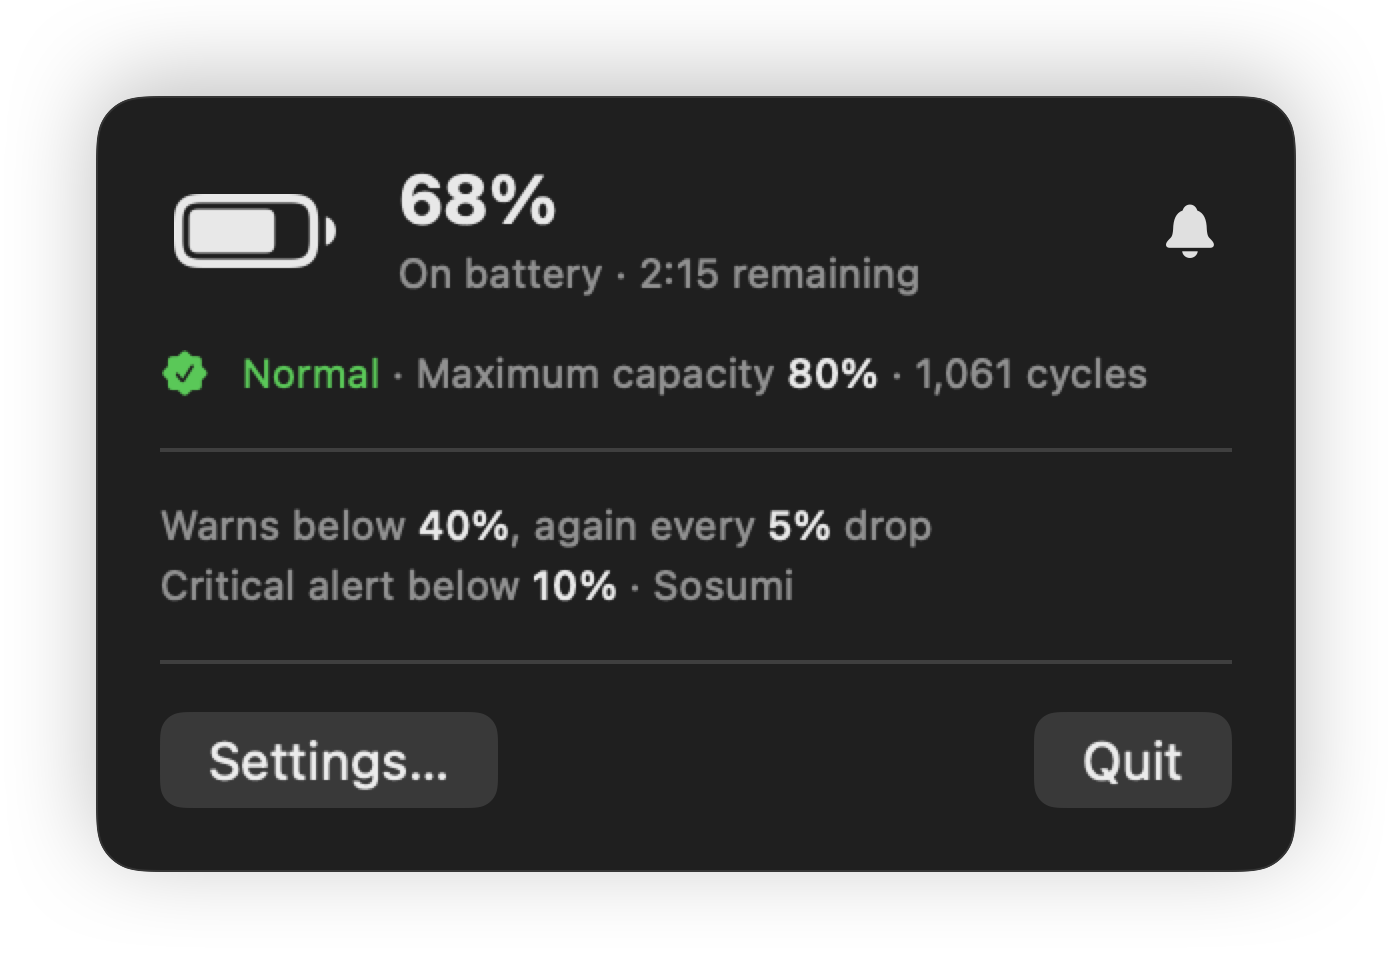
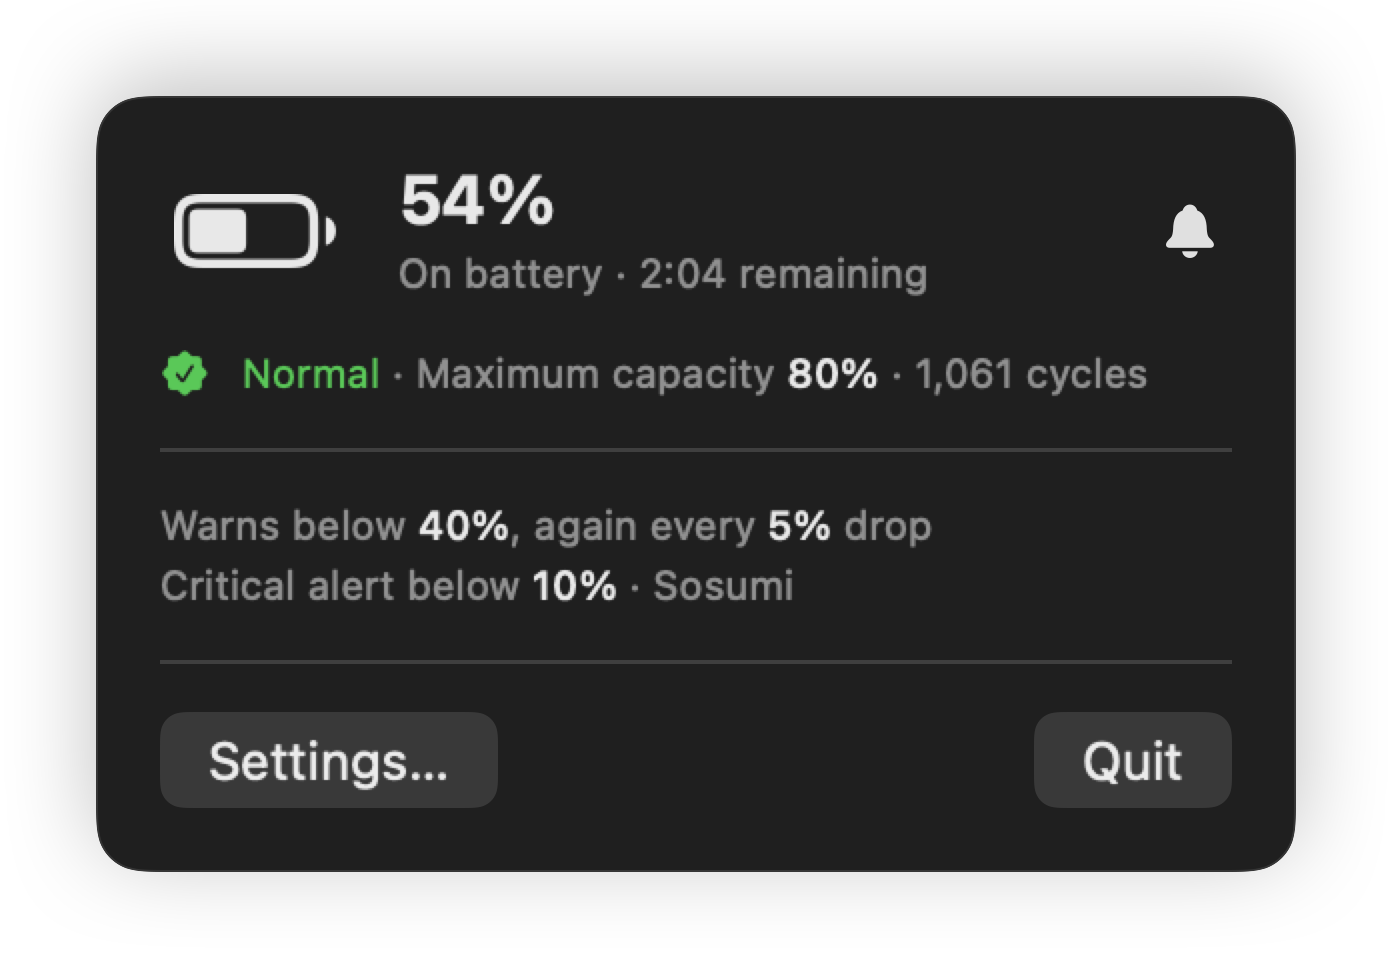
docs: show the screenshots as stacked cards matching the github theme
One labelled column per appearance, with the other appearance behind
it, picked by prefers-color-scheme so it shows larger than side by side.

Changed region(s): [[0.4634, 0.2449, 0.6796, 0.3061], [0.278, 0.1837, 0.4016, 0.2449], [0.1545, 0.2143, 0.2162, 0.2755]]

diff --git a/docs/images/compose.swift b/docs/images/compose.swift
@@ -1,6 +1,7 @@
-// Combines the screenshots into screenshots.png for the README: Light and Dark across the top, and
-// the menu bar icon, the menu bar panel and the Settings window down each column. Run by
-// update-screenshots.sh from the repo root.
+// Combines the screenshots into screenshots-light.png and screenshots-dark.png for the README, which
+// shows the one matching the visitor's GitHub theme. Each has the menu bar icon, the menu bar panel
+// and the Settings window down one column, labelled, in that appearance, with the other appearance
+// peeking out behind like a stacked card. Run by update-screenshots.sh from the repo root.
 import AppKit
 
 let dir = "docs/images"
@@ -28,8 +29,8 @@ func fit(_ image: NSImage, width: CGFloat) -> NSImage {
 // Each image has a transparent margin for its shadow. Items are sized and placed by what's inside
 // it, so the panel and the menu bar strip match the Settings window's width (rendered at 4x, they're
 // only ever scaled down), and the shadows spill into the gaps instead of widening the image.
-// Margins in points at the image's own size: sides, top, bottom. The menu bar strip has room for
-// its captions below; a window's shadow falls lower than it reaches above.
+// Margins are in points at the image's own size. The menu bar strip has room for its captions below;
+// a window's shadow falls lower than it reaches above.
 let shadowMargin: [String: (side: CGFloat, top: CGFloat, bottom: CGFloat)] = [
     "menubar": (240 * 24 / 300, 4, 18), "panel": (24, 20, 28), "settings": (56, 37.5, 74.5),
 ]
@@ -39,26 +40,6 @@ func item(_ name: String) -> (image: NSImage, side: CGFloat, top: CGFloat, botto
     let zoom = windowWidth / (image.size.width - 2 * margin.side)
     return (fit(image, width: image.size.width * zoom), margin.side * zoom, margin.top * zoom, margin.bottom * zoom)
 }
-let rows = ["menubar", "panel", "settings"].map { (light: item("\($0)-light"), dark: item("\($0)-dark")) }
-
-// Layout, in points
-let margin: CGFloat = 48, columnGap: CGFloat = 48, rowGap: CGFloat = 40, headerHeight: CGFloat = 64
-// A row is as tall as its content, without the margins above and below
-let rowHeights = rows.map { $0.light.image.size.height - $0.light.top - $0.light.bottom }
-let size = CGSize(width: margin * 2 + windowWidth * 2 + columnGap,
-                  height: margin * 2 + headerHeight + rowHeights.reduce(0, +) + rowGap * CGFloat(rows.count - 1))
-
-let rep = NSBitmapImageRep(bitmapDataPlanes: nil, pixelsWide: Int(size.width * scale), pixelsHigh: Int(size.height * scale),
-                           bitsPerSample: 8, samplesPerPixel: 4, hasAlpha: true, isPlanar: false,
-                           colorSpaceName: .deviceRGB, bytesPerRow: 0, bitsPerPixel: 0)!
-rep.size = size
-NSGraphicsContext.saveGraphicsState()
-NSGraphicsContext.current = NSGraphicsContext(bitmapImageRep: rep)
-NSGraphicsContext.current?.imageInterpolation = .high
-
-// A soft neutral card, so the dark labels read on both GitHub themes
-NSColor(srgbRed: 0.933, green: 0.941, blue: 0.957, alpha: 1).setFill()
-NSBezierPath(roundedRect: CGRect(origin: .zero, size: size), xRadius: 28, yRadius: 28).fill()
 
 func draw(_ text: String, size: CGFloat, weight: NSFont.Weight, color: NSColor, in box: CGRect, centered: Bool) {
     let style = NSMutableParagraphStyle()
@@ -70,23 +51,65 @@ func draw(_ text: String, size: CGFloat, weight: NSFont.Weight, color: NSColor, 
                             withAttributes: attributes)
 }
 
-let ink = NSColor(srgbRed: 0.11, green: 0.114, blue: 0.13, alpha: 1)
-let columnX = [margin, margin + windowWidth + columnGap]
+// Layout, in points
+let margin: CGFloat = 48, rowGap: CGFloat = 48, labelWidth: CGFloat = 170, peek = CGSize(width: 56, height: 40)
+let labels = ["Menu bar icon", "Menu bar panel", "Settings window"]
+for front in ["light", "dark"] {
+    let back = front == "light" ? "dark" : "light"
+    let rows = ["menubar", "panel", "settings"].map { (name: $0, front: item("\($0)-\(front)"), back: item("\($0)-\(back)")) }
+    let rowHeights = rows.map { $0.front.image.size.height - $0.front.top - $0.front.bottom + peek.height }
+    let size = CGSize(width: margin * 2 + labelWidth + windowWidth + peek.width,
+                      height: margin * 2 + rowHeights.reduce(0, +) + rowGap * CGFloat(rows.count - 1))
+    let rep = NSBitmapImageRep(bitmapDataPlanes: nil, pixelsWide: Int(size.width * scale), pixelsHigh: Int(size.height * scale),
+                               bitsPerSample: 8, samplesPerPixel: 4, hasAlpha: true, isPlanar: false,
+                               colorSpaceName: .deviceRGB, bytesPerRow: 0, bitsPerPixel: 0)!
+    rep.size = size
+    NSGraphicsContext.saveGraphicsState()
+    NSGraphicsContext.current = NSGraphicsContext(bitmapImageRep: rep)
+    NSGraphicsContext.current?.imageInterpolation = .high
+    // A card in the GitHub theme's own tone, with matching ink
+    let dark = front == "dark"
+    (dark ? NSColor(srgbRed: 0.086, green: 0.106, blue: 0.133, alpha: 1) : NSColor(srgbRed: 0.933, green: 0.941, blue: 0.957, alpha: 1)).setFill()
+    NSBezierPath(roundedRect: CGRect(origin: .zero, size: size), xRadius: 28, yRadius: 28).fill()
+    let ink = dark ? NSColor(srgbRed: 0.902, green: 0.929, blue: 0.953, alpha: 1) : NSColor(srgbRed: 0.11, green: 0.114, blue: 0.13, alpha: 1)
 
-// Header: Light and Dark over their columns (AppKit's origin is bottom-left)
-var top = size.height - margin
-for (x, title) in zip(columnX, ["Light", "Dark"]) {
-    draw(title, size: 32, weight: .bold, color: ink, in: CGRect(x: x, y: top - headerHeight, width: windowWidth, height: headerHeight), centered: true)
-}
-top -= headerHeight
-
-for (row, height) in zip(rows, rowHeights) {
-    for (x, item) in zip(columnX, [row.light, row.dark]) {
-        item.image.draw(in: CGRect(origin: CGPoint(x: x - item.side, y: top - height - item.bottom), size: item.image.size))
+    let x0 = margin + labelWidth
+    var top = size.height - margin
+    for (index, (row, height)) in zip(rows, rowHeights).enumerated() {
+        let bottom = top - height
+        let frontFrame = CGRect(origin: CGPoint(x: x0 - row.front.side, y: bottom - row.front.bottom), size: row.front.image.size)
+        let backFrame = CGRect(origin: CGPoint(x: x0 + peek.width - row.back.side, y: bottom + peek.height - row.back.bottom), size: row.back.image.size)
+        // The menu bar strips are drawn without their baked-in captions, which are redrawn here in
+        // the card's ink
+        let stripZoom = row.front.side / (240 * 24 / 300)
+        func strip(_ frame: CGRect) -> CGRect {
+            CGRect(x: frame.minX, y: frame.maxY - (4 + 24 + 2) * stripZoom, width: frame.width, height: (4 + 24 + 2) * stripZoom)
+        }
+        for (image, frame) in [(row.back.image, backFrame), (row.front.image, frontFrame)] {
+            NSGraphicsContext.saveGraphicsState()
+            if row.name == "menubar" { NSBezierPath(rect: strip(frame)).setClip() }
+            image.draw(in: frame)
+            NSGraphicsContext.restoreGraphicsState()
+        }
+        if row.name == "menubar" {
+            let captionTop = strip(frontFrame).minY - 6 * stripZoom
+            for (i, caption) in ["Normal", "Low battery", "Muted"].enumerated() {
+                let box = CGRect(x: x0 + windowWidth * CGFloat(i) / 3, y: captionTop - 20, width: windowWidth / 3, height: 20)
+                draw(caption, size: 17, weight: .medium, color: ink, in: box, centered: true)
+            }
+        }
+        // Each label is centred on its front item; the menu bar's on the whole group: both strips
+        // and the captions
+        let frontTop = bottom + height - peek.height
+        let labelMidY = row.name == "menubar"
+            ? (strip(backFrame).maxY - 4 * stripZoom + strip(frontFrame).minY - 6 * stripZoom - 20) / 2
+            : (frontTop + bottom) / 2
+        draw(labels[index], size: 20, weight: .semibold, color: ink,
+             in: CGRect(x: margin, y: labelMidY - 15, width: labelWidth - 16, height: 30), centered: false)
+        top -= height + rowGap
     }
-    top -= height + rowGap
+    NSGraphicsContext.restoreGraphicsState()
+    let out = "\(dir)/screenshots-\(front).png"
+    try! rep.representation(using: .png, properties: [:])!.write(to: URL(fileURLWithPath: out))
+    print("Wrote \(out), \(rep.pixelsWide) × \(rep.pixelsHigh)")
 }
-
-NSGraphicsContext.restoreGraphicsState()
-try! rep.representation(using: .png, properties: [:])!.write(to: URL(fileURLWithPath: "\(dir)/screenshots.png"))
-print("Wrote \(dir)/screenshots.png, \(rep.pixelsWide) × \(rep.pixelsHigh)")

diff --git a/docs/images/render-panel.swift b/docs/images/render-panel.swift
@@ -74,8 +74,8 @@ enum RenderPanel {
     }
 }
 
-/// A menu bar showing the icon in each state, captioned underneath. The captions use the same ink
-/// as screenshots.png's labels, since the composite's card is light in both columns.
+/// A menu bar showing the icon in each state, captioned underneath. compose.swift draws only the
+/// strip and redraws the captions in its card's ink.
 struct MenuBarStates: View {
     let dark: Bool
     private let states: [(caption: String, isLow: Bool, isMuted: Bool)] = [

diff --git a/AGENTS.md b/AGENTS.md
@@ -30,7 +30,7 @@ A macOS 14+ menu bar app (SwiftUI `MenuBarExtra`, no Dock icon by default via `L
 - **Ad-hoc signing with hardened runtime** (`codesign --options runtime --sign -`) is required for notifications and launch at login. Do **not** add entitlements such as `com.apple.developer.usernotifications.time-sensitive`. They need a provisioning profile from a paid Apple Developer Program membership, and in an ad-hoc signature they make AMFI refuse to launch the app (POSIX 163). `interruptionLevel = .timeSensitive` is deliberately left in the code even though it has no effect on this build.
 - **Security hardening**: `playSound` only plays names listed in `Notifier.availableSounds` (from `/System/Library/Sounds`). The `osascript` fallback passes the title and message as `argv` and never interpolates them into the script text. Keep both.
 - The app has no network access, no sandbox and no privileges. Keep it that way.
-- `README.md` is the user-facing overview (features, install, settings, troubleshooting) and is kept short. Technical detail (the warning logic, implementation notes, `build.sh`, screenshots, file locations, security) lives in `docs/HOW-IT-WORKS.md`. Update whichever applies when behavior changes, and the screenshots in `docs/images/` when the UI changes. The README shows one combined `screenshots.png`. `docs/images/update-screenshots.sh` re-renders the panel images from `PanelView` and rebuilds it; the Settings window images are real Retina (2x) captures, shadow included, and have to be replaced by hand first (rendered ones look inactive).
+- `README.md` is the user-facing overview (features, install, settings, troubleshooting) and is kept short. Technical detail (the warning logic, implementation notes, `build.sh`, screenshots, file locations, security) lives in `docs/HOW-IT-WORKS.md`. Update whichever applies when behavior changes, and the screenshots in `docs/images/` when the UI changes. The README shows `screenshots-light.png` or `screenshots-dark.png` through a `<picture>` element, matching the visitor's GitHub theme. `docs/images/update-screenshots.sh` re-renders the panel images from `PanelView` and rebuilds both; the Settings window images are real Retina (2x) captures, shadow included, and have to be replaced by hand first (rendered ones look inactive).
 
 ## Commit messages
 

diff --git a/README.md b/README.md
@@ -4,7 +4,10 @@ A lightweight macOS menu bar app for low battery warnings at the level you choos
 
 macOS only warns when the battery is nearly empty, at a level you can't change, with a notification that's easy to miss. Flicker warns earlier, keeps warning as the battery drops, and plays a sound loud enough to notice.
 
-![Flicker in light and dark mode. Top row: the menu bar icon, normal, low battery (with an exclamation mark) and muted (crossed out). Middle row: the menu bar panel, showing 68% on battery with 2:15 remaining, battery health Normal, maximum capacity 80% and 1,061 cycles, a summary of the warning settings, and Settings and Quit buttons. Bottom row: the Settings window, with Warnings (warn below 40%, critical level 10%, remind every 5% drop), Alert (notification style, Sosumi sound, 300% volume, test warning) and General (show in Dock, percentage in menu bar, launch at login) sections.](docs/images/screenshots.png)
+<picture>
+  <source media="(prefers-color-scheme: dark)" srcset="docs/images/screenshots-dark.png">
+  <img src="docs/images/screenshots-light.png" alt="Flicker's menu bar icon (normal, low battery with an exclamation mark, muted crossed out), the menu bar panel (54% on battery with 2:04 remaining, battery health Normal, maximum capacity 80%, 1,061 cycles, a summary of the warning settings, and Settings and Quit buttons) and the Settings window (Warnings: warn below 40%, critical level 10%, remind every 5% drop; Alert: notification style, Sosumi sound, 300% volume, test warning; General: show in Dock, percentage in menu bar, launch at login), each with its other appearance behind it">
+</picture>
 
 ## Features
 

diff --git a/docs/HOW-IT-WORKS.md b/docs/HOW-IT-WORKS.md
@@ -70,7 +70,7 @@ A `.app` is a folder with a fixed layout. Without Xcode, the script builds it by
 
 ## Screenshots
 
-`docs/images/update-screenshots.sh` re-renders the panel images straight from `PanelView` at 4x, drawn on the sharpest connected screen since a window renders at its screen's pixel density, and rebuilds `screenshots.png` with `compose.swift`, which enlarges the panel to the Settings window's width. It also draws the menu bar icon's states from `MenuBarLabel`, enlarged the same way. The Settings window images are real Retina (2x) captures, with the window shadow, since a window drawn by a background process renders its controls as inactive.
+`docs/images/update-screenshots.sh` re-renders the panel images straight from `PanelView` at 4x, drawn on the sharpest connected screen since a window renders at its screen's pixel density, and draws the menu bar icon's states from `MenuBarLabel`. `compose.swift` then builds `screenshots-light.png` and `screenshots-dark.png`: each item enlarged to the Settings window's width and labelled, in one appearance with the other peeking out behind it. The README picks the one matching the visitor's GitHub theme with a `<picture>` element and `prefers-color-scheme`. The Settings window images are real Retina (2x) captures, with the window shadow, since a window drawn by a background process renders its controls as inactive.
 
 ## Where the app keeps things
 
